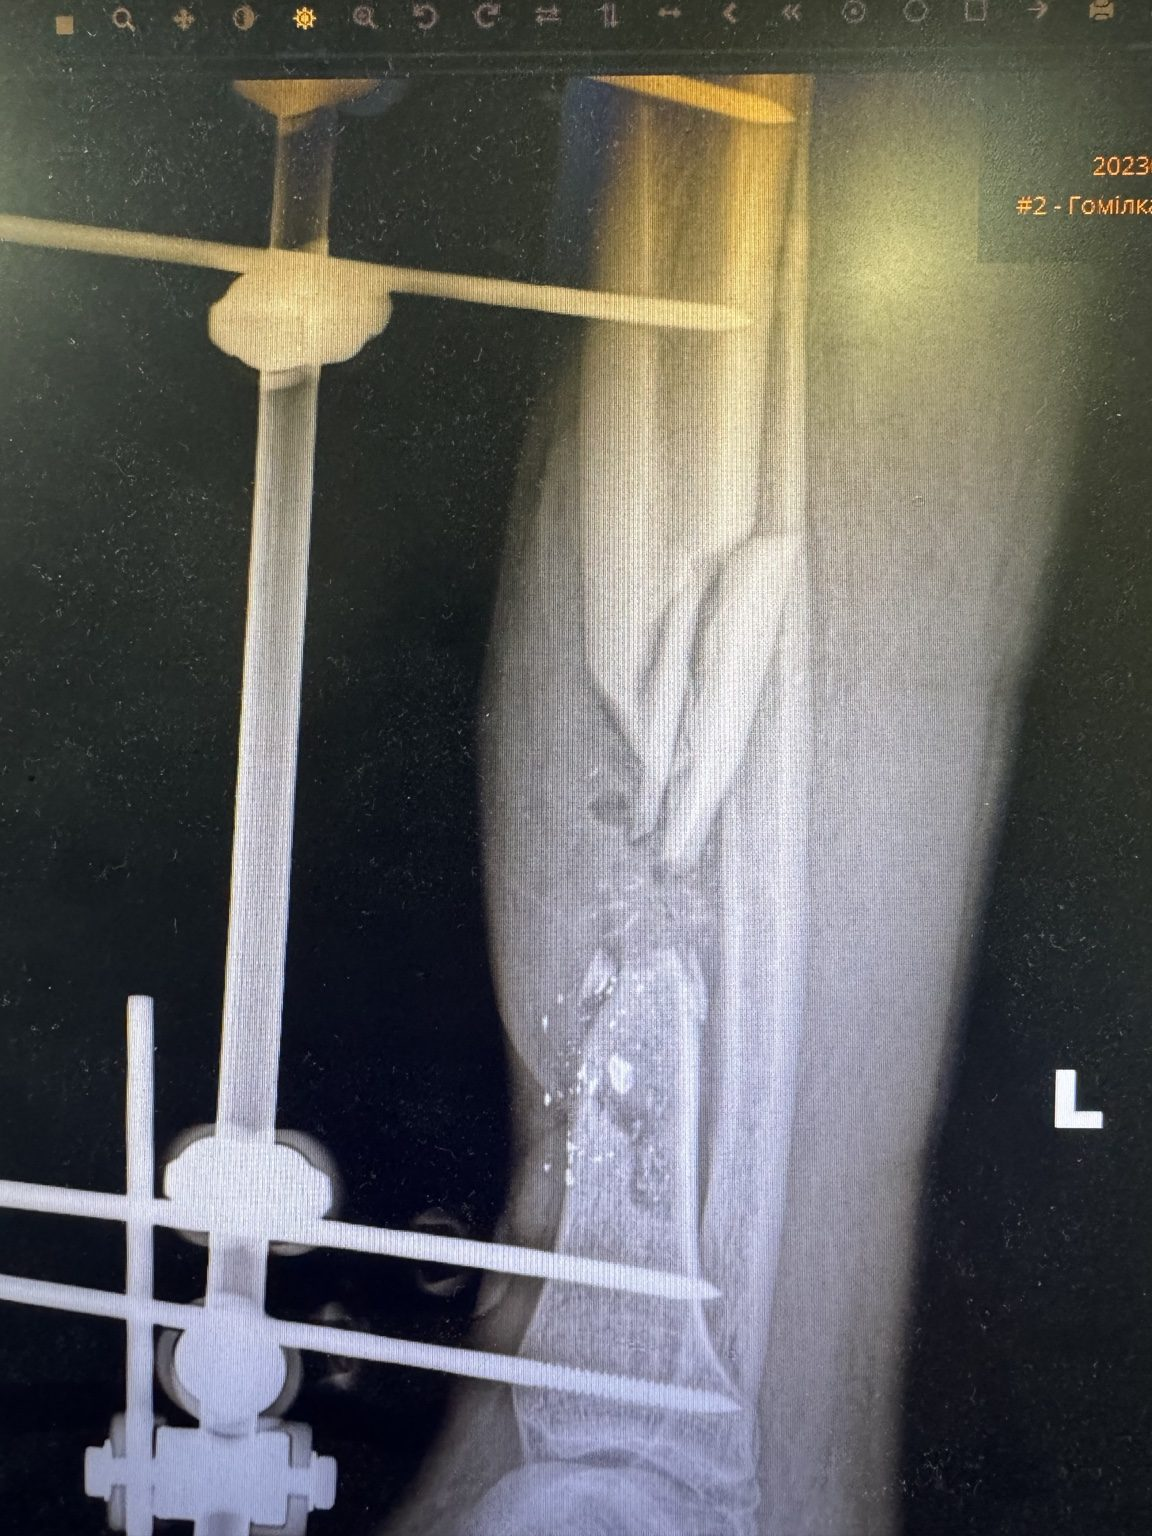
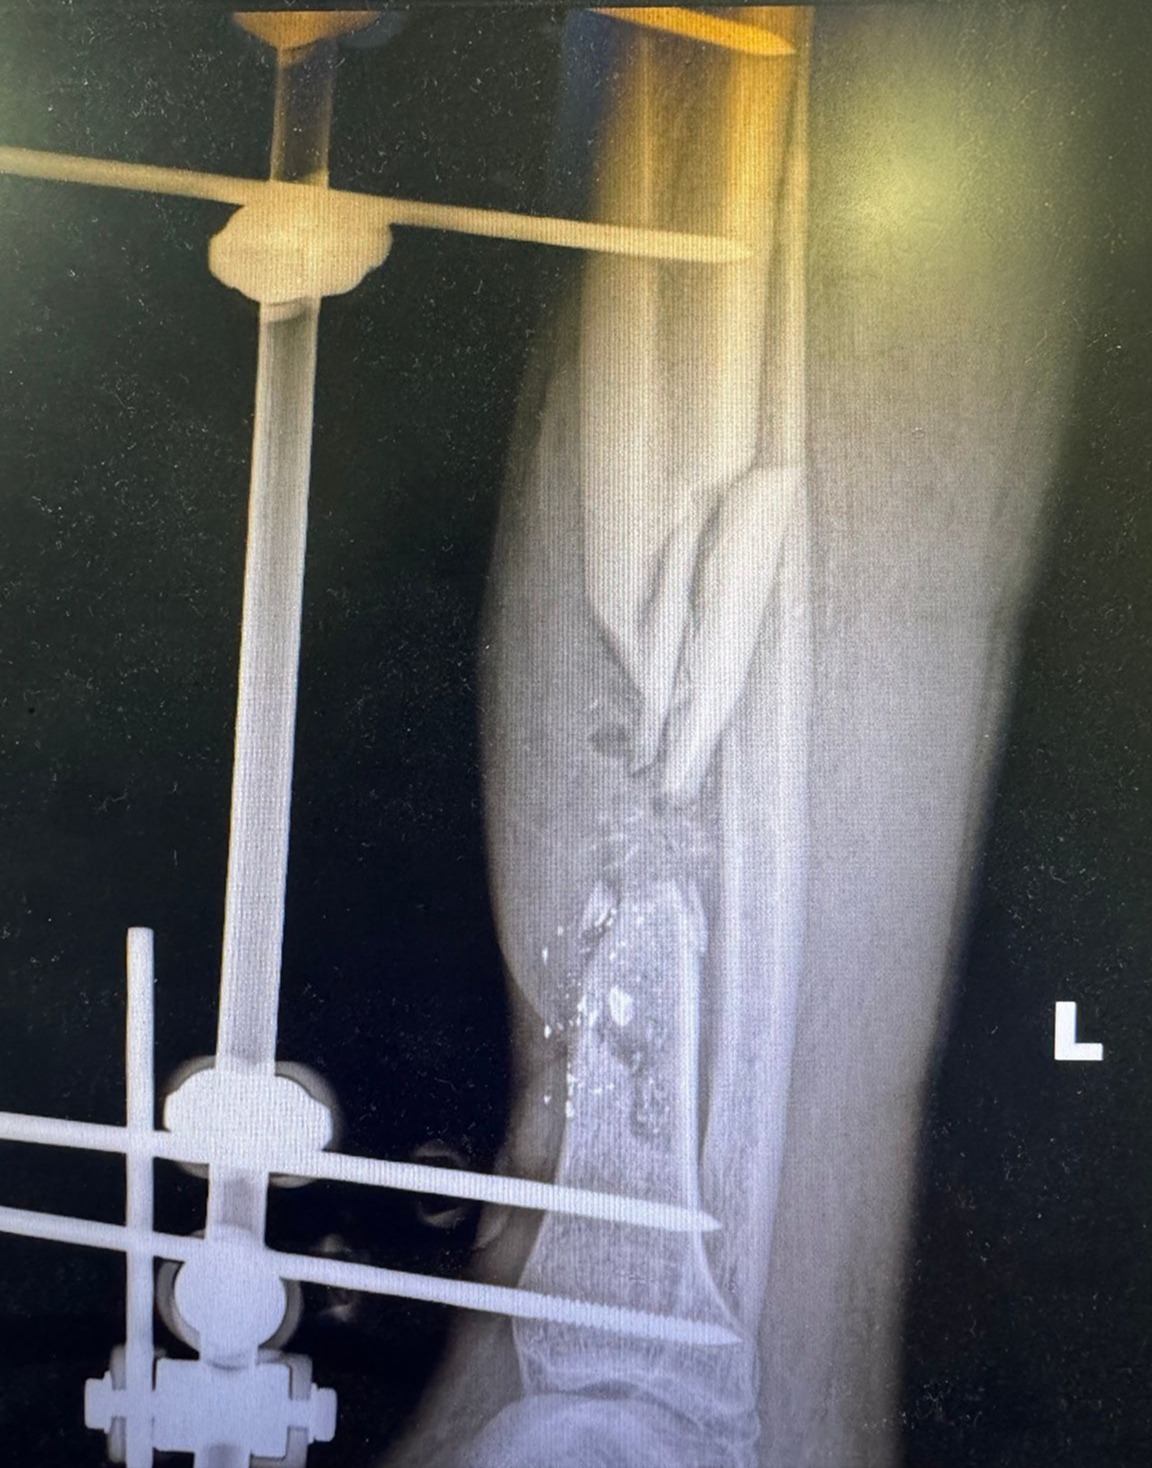
Clean up treatment photos: remove patient PII/UI chrome, fix broken case images
- Redact patient names/DOB/IDs burned into X-ray/MRI screenshots (osteosynthesis,
  arthroscopy, trauma-reconstruction) and crop out PACS/browser/phone UI chrome
- Fix bone-defects case image that never rendered (was marked as a divider block)
- Add missing case photos for arthroscopy (both knees) and trauma-reconstruction
  (3 stages, 6 photos)
- Replace osteosynthesis and trauma-reconstruction hero photos with real
  operating-room/case shots instead of reused/placeholder images
- Merge duplicate limb-lengthening/height-increase cards into one, remove wall
  text from its hero photo
- ImageLightbox: uniform-size thumbnails via a configurable aspect+fit (cover
  for portrait X-rays, contain for landscape ones and diagram galleries)
- Fix hip-replacement caption that referenced a "before" X-ray that never existed

diff --git a/components/ImageLightbox.tsx b/components/ImageLightbox.tsx
@@ -6,10 +6,19 @@ export default function ImageLightbox({
   images,
   className,
   imgClassName = "w-full h-auto",
+  aspect,
+  fit = "cover",
+  letterboxBg = "bg-black",
 }: {
   images: string[];
   className?: string;
   imgClassName?: string;
+  /** Tailwind aspect-ratio class (e.g. "aspect-[3/4]"). When set, every thumbnail sits in this uniform box instead of keeping its natural size. */
+  aspect?: string;
+  /** "cover" crops to fill the box (default); "contain" letterboxes so nothing is cropped. */
+  fit?: "cover" | "contain";
+  /** Background shown behind a "contain"-fit image where it doesn't fill the box. */
+  letterboxBg?: string;
 }) {
   const [openIndex, setOpenIndex] = useState<number | null>(null);
 
@@ -36,9 +45,13 @@ export default function ImageLightbox({
             key={src}
             type="button"
             onClick={() => setOpenIndex(i)}
-            className="block w-full rounded-[8px] overflow-hidden border border-hairline cursor-zoom-in transition-transform hover:scale-[1.01]"
+            className={`block w-full self-start rounded-[8px] overflow-hidden border border-hairline cursor-zoom-in transition-transform hover:scale-[1.01] ${aspect ?? ""} ${aspect && fit === "contain" ? letterboxBg : ""}`}
           >
-            <img src={src} alt="" className={imgClassName} />
+            <img
+              src={src}
+              alt=""
+              className={aspect ? (fit === "contain" ? "w-full h-full object-contain" : "w-full h-full object-cover") : imgClassName}
+            />
           </button>
         ))}
       </div>

diff --git a/app/[lang]/treatments/[slug]/page.tsx b/app/[lang]/treatments/[slug]/page.tsx
@@ -80,7 +80,13 @@ function BlockBody({ block }: { block: Block }) {
       {block.caseImages && block.caseImages.length > 0 && (
         <ImageLightbox
           images={block.caseImages.map((img) => `${BASE}/directions/${img}`)}
-          className="mb-4 grid grid-cols-2 sm:grid-cols-3 gap-3"
+          className={
+            block.caseAspect === "landscape"
+              ? "mb-4 grid grid-cols-1 sm:grid-cols-2 gap-3"
+              : "mb-4 grid grid-cols-2 sm:grid-cols-3 gap-3"
+          }
+          aspect={block.caseAspect === "landscape" ? "aspect-[2/1]" : "aspect-[3/4]"}
+          fit={block.caseAspect === "landscape" ? "contain" : "cover"}
         />
       )}
       {block.body.map((item, j) => {
@@ -176,6 +182,9 @@ function RichDetail({
             <ImageLightbox
               images={article.gallery.map((img) => `${BASE}/directions/${img}`)}
               className="mt-8 grid grid-cols-1 sm:grid-cols-2 gap-4"
+              aspect="aspect-[3/2]"
+              fit="contain"
+              letterboxBg="bg-white"
             />
           )}
 

diff --git a/app/directions.ts b/app/directions.ts
@@ -15,6 +15,8 @@ export interface Block {
   body: BodyItem[];
   divider: boolean;
   caseImages?: string[];
+  /** "landscape" for wide case photos (e.g. full-limb X-rays); defaults to portrait. */
+  caseAspect?: "landscape" | "portrait";
 }
 export interface Article {
   title: string;
